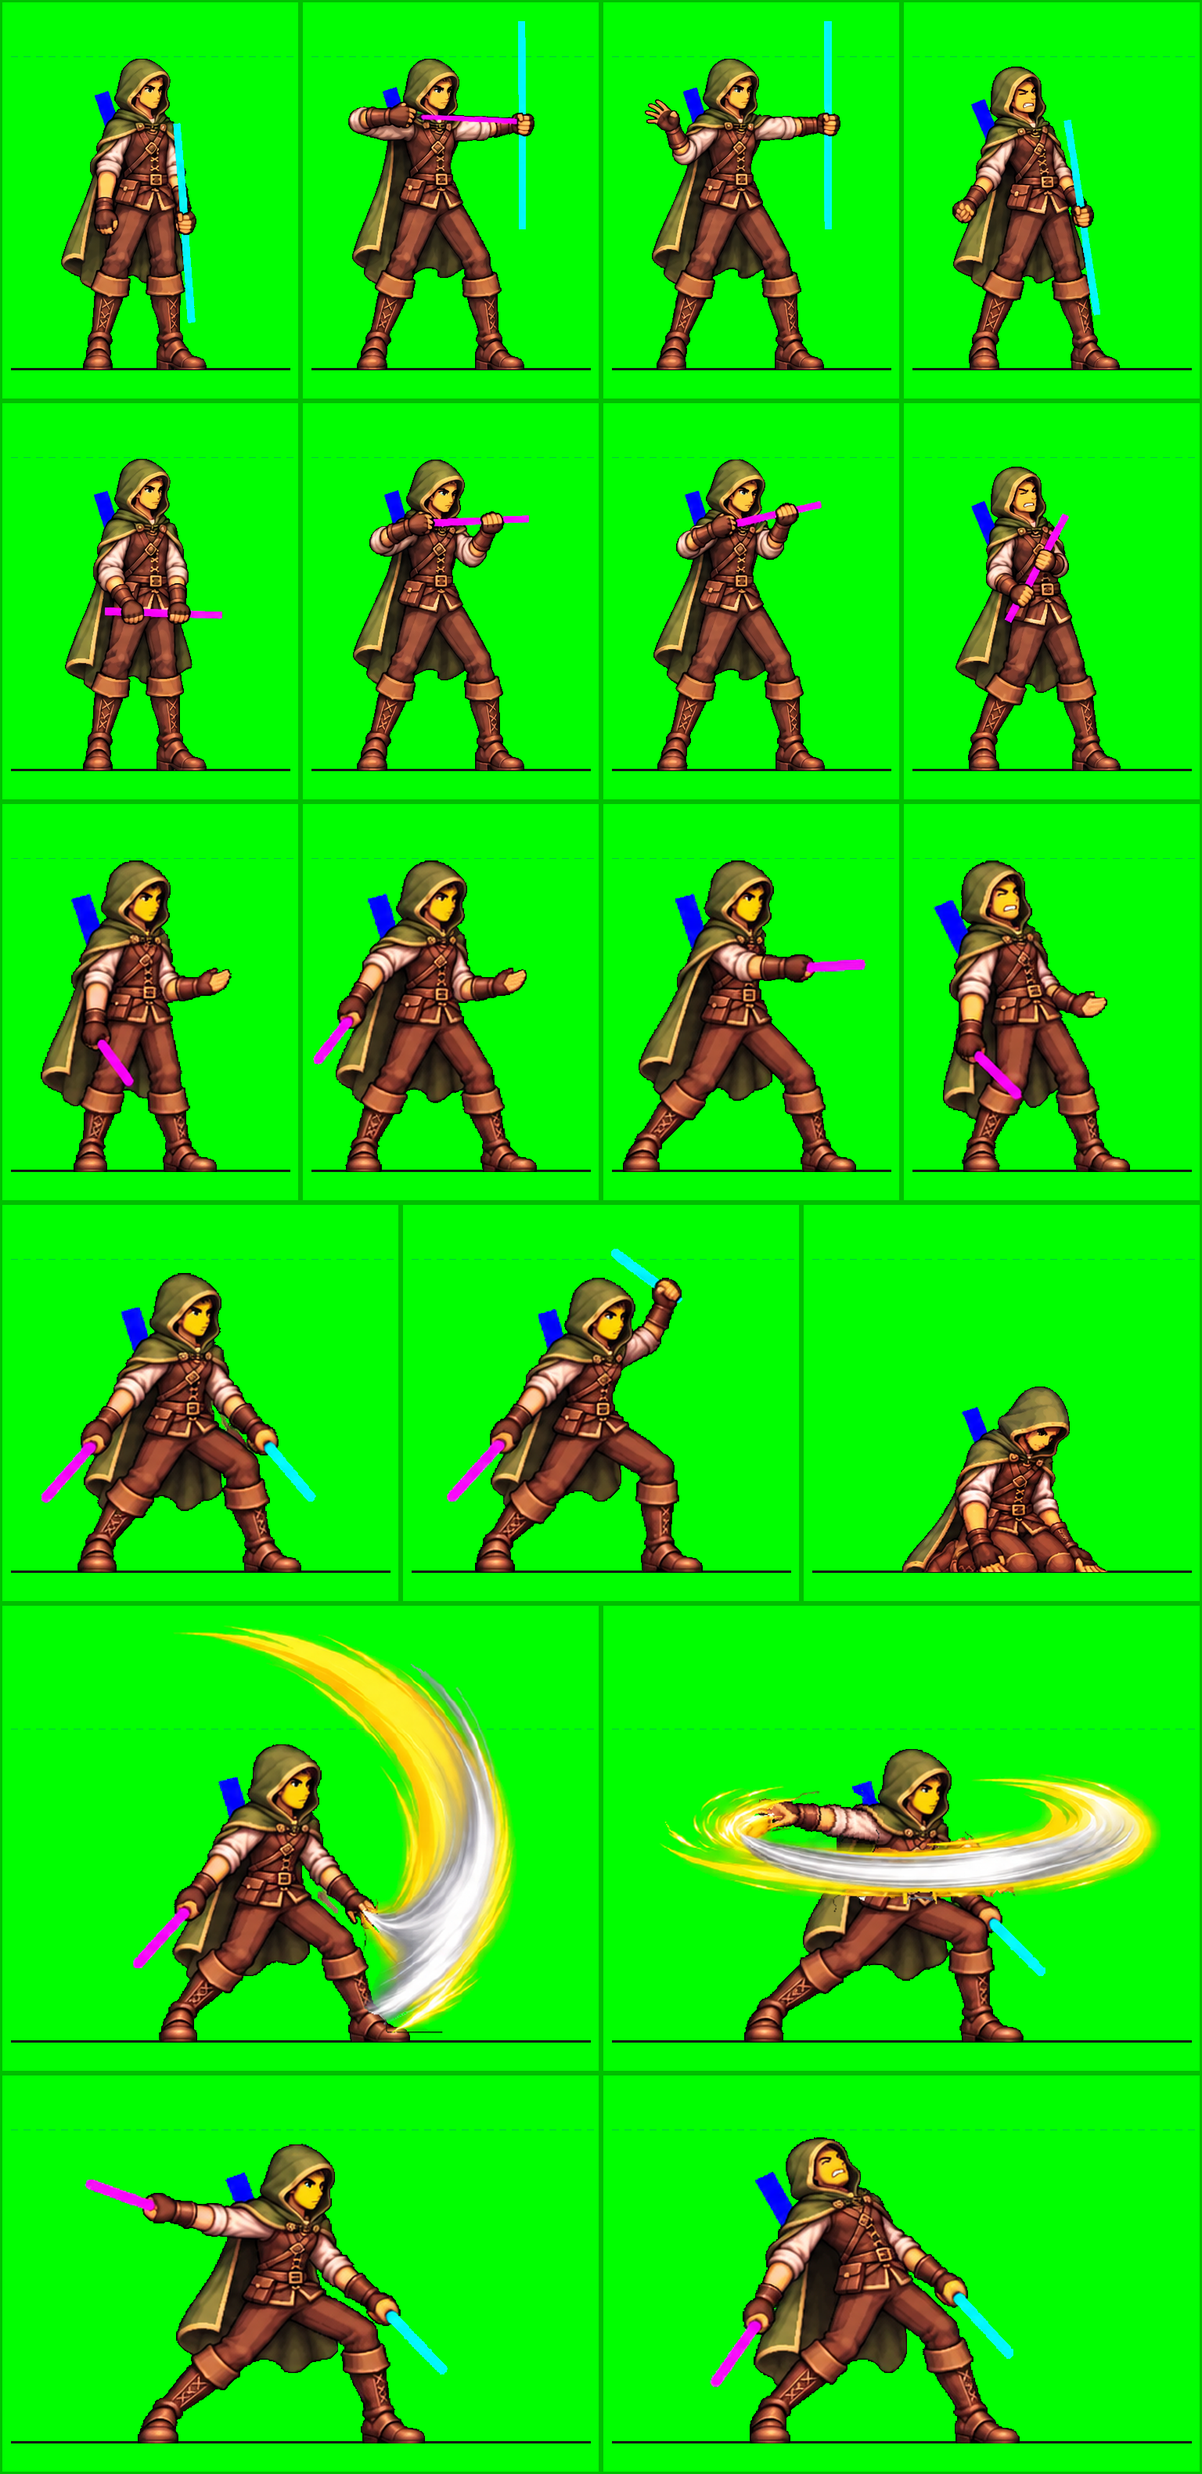
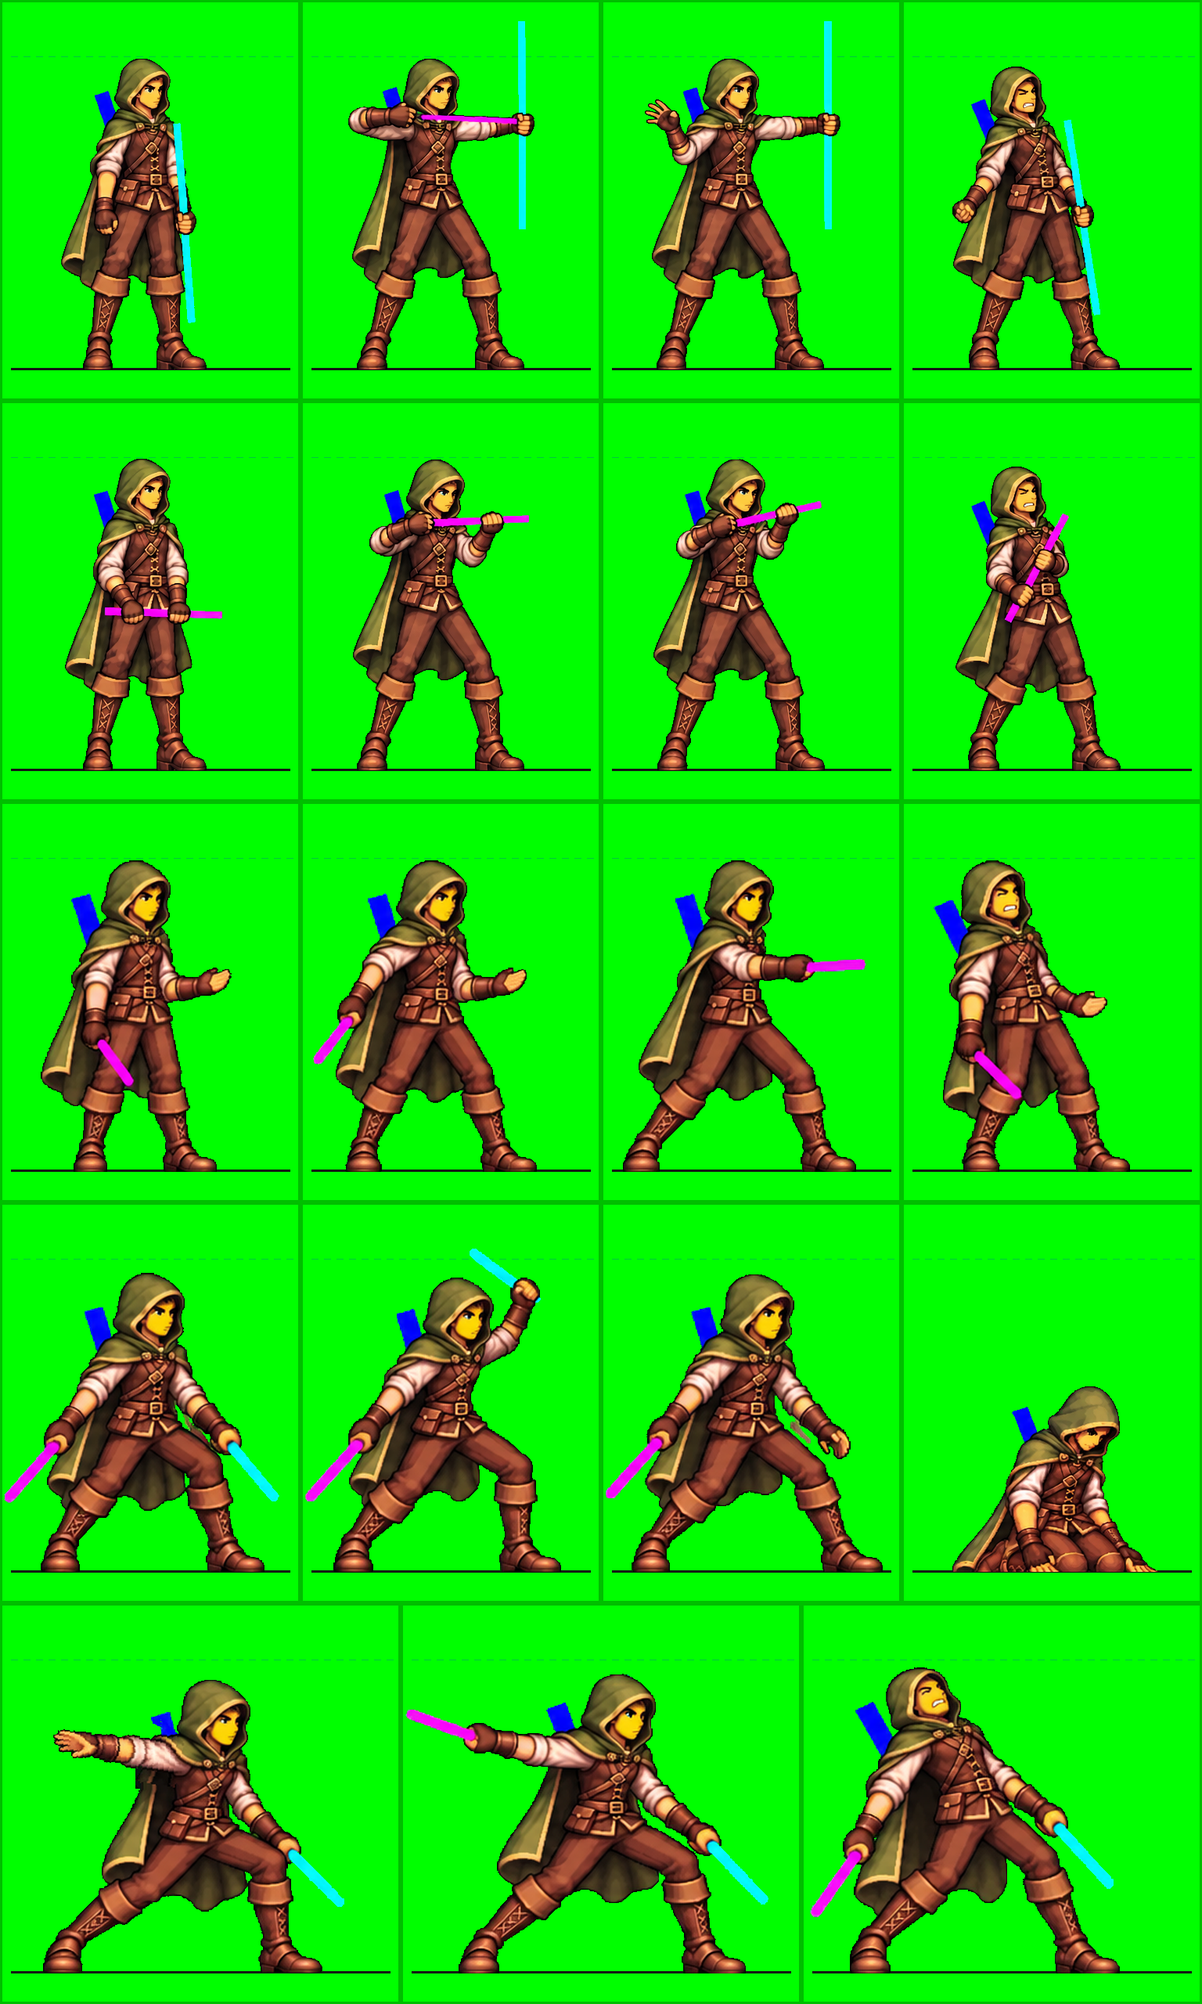
Archer combined sheet: slash arcs off again (separate layer); female prompt updated
Claude-Session: https://claude.ai/code/session_01M8ejkLTav7LEMdtajuWjkN

diff --git a/art_source/new_art/battle/tools/combine_archer_sheet.py b/art_source/new_art/battle/tools/combine_archer_sheet.py
@@ -40,11 +40,11 @@ s_down = ref / body_height(down, (0, 512, 512, 1024))        # the downed sheet'
 ROWS = [[(bow, bcell[('bow', s)], 1.0, 'bow', s) for s in ('stand', 'nock', 'attack', 'hit')],
         [(bow, bcell[('crossbow', s)], 1.0, 'crossbow', s) for s in ('stand', 'aim', 'attack', 'hit')],
         [(dag, dcell[('1h', s)], s_dag, '1h', s) for s in ('stand', 'ready', 'attack', 'hit')],
-        [(dag, dcell[('dual', s)], s_dag, 'dual', s) for s in ('stand', 'ready')] + [(down, (0, 0, 512, 512), s_down, 'downed', 'downed')],
-        [(dag, dcell[('dual', s)], s_dag, 'dual', s) for s in ('slash_left', 'slash_right')],
-        [(dag, dcell[('dual', s)], s_dag, 'dual', s) for s in ('finish', 'hit')]]
-ROW_H = [512, 512, 512, 512, 600, 512]          # the slash row is taller: the chop arc rises above the hood
-FX = json.load(open(os.path.join(HERE, 'source', 'archer_dagger_m_fx', 'offsets.json')))['offsets']
+        [(dag, dcell[('dual', s)], s_dag, 'dual', s) for s in ('stand', 'ready', 'slash_left')]
+        + [(down, (0, 0, 512, 512), s_down, 'downed', 'downed')],
+        [(dag, dcell[('dual', s)], s_dag, 'dual', s) for s in ('slash_right', 'finish', 'hit')]]
+ROW_H = [512] * len(ROWS)
+FX = {}      # (user, 2026-11-25) no slash arcs on this sheet: they are their own layer (source/archer_dagger_m_fx/)
 out = Image.new('RGB', (1536, sum(ROW_H)), GREEN); d = ImageDraw.Draw(out); layout = []; fx_jobs = []
 for r, row in enumerate(ROWS):
     cw = 1536 / len(row)

diff --git a/docs/design-decisions.md b/docs/design-decisions.md
@@ -30,7 +30,7 @@ Archer and Mage melee weapons limited to **light** weapons on 2026-11-16 (user: 
 
 **Shields (user, 2026-11-20): each class has its own shield shape** — Soldier = **square** shield, Acolyte and Warrior = **round** shield (the Warrior could not use shields before; this adds it), **kite shield = reserved for a future Knight class**. A one-handed weapon **without** a shield uses the **dual-weapon stance** (left hand empty) in battle sprites. **The shield look is fixed per class** (user, 2026-11-20): shield equipment comes in broad categories (**light shield, heavy shield, tower shield**) that change the rules only; the sprite and the shield stance always show the class's own shield. Shield categories are not in the weapon sheet yet. **Headgear (user, 2026-11-20): battle sprites wear class headgear, portraits never do.** It is drawn into the sprite body by ChatGPT, so battle sprites have **no hair layer** (the portrait-hair sample is dropped for helmeted classes, `HEADGEAR` in `process_battle.py`). **Soldier final design** (`source/concepts/soldier_final_design.png`): plain open-face **barbute helm** (no crest, gold or emblem), simple silver plate armour, blue scarf and tabard, brown leather belt and gloves; the face is the only skin (yellow key). Soldier v3 prompt in `PROMPTS.md` (4 rows: square shield, dual, two-handed, spear), ~6 heads tall including the helmet. Helmet variations and faction colours on that sheet are not used. **Hair under the helmet (user, 2026-11-20):** ChatGPT draws a long-hair ponytail behind the neck in shades of **pure red** (never covering the body); `process_battle.py` cuts it into a hair value-map layer tinted with the hero's hair ramp and shows it **only for long portrait hairstyles** (`art_source/new_art/battle/hair_length.json`: male ponytail, long, wild_mane; female long, ponytail, braids, wavy, side_braid, curly_mane, warrior_halfup; buns/topknots/crown braids count as short). Both sexes get the piece. **Four sprites per stance (user, 2026-11-20, extends the three-sprite rule):** STAND | **READY** (the wind-up a moment before the attack) | ATTACK | GET HIT; the **dual row** is STAND | **ATTACK 1 (main hand)** | **ATTACK 2 (off-hand)** | GET HIT, because dual wield hits twice. Playback: stand → ready → attack → stand (dual: stand → attack 1 → attack 2 → stand); one weapon in the dual stance uses only attack 1. Soldier template is now 4 × 4 (`make_refs.py` `CLASS_STATES`), prompt v5 in `PROMPTS.md`. **Hand convention (corrected 2026-11-20):** in right-facing sprites the character's **LEFT arm is the lead arm** (right side of the picture, the shield arm) and the **RIGHT arm is the rear arm**; magenta (main weapon) is always in the right/rear hand, cyan in the left/lead hand, and the main-hand attack swings the rear arm forward across the body. An earlier prompt rule ("right hand leading on the right of the picture") was wrong and made ChatGPT draw both dual attacks with the left arm; the v5 male sheet's dual stand/hit are swapped back in code (`SWAP_HANDS`) and its ATTACK 1 needs the edit prompt in `PROMPTS.md`. **Dual weapons get their own sheet (user's dual-slash concept, 2026-11-21):** stand → ready (front/cyan arm winds up) → slash 1 (cyan chops down) → slash 2 (magenta sweeps across) → finish (magenta follow-through) → plus get hit; template `soldier_dual_template.png` (2 × 3), prompt names the arms only by rod colour (front arm = cyan, back arm = magenta), never left/right. Main Soldier sheet is now 3 rows × 4 (shield, two-handed, spear). One weapon without shield plays stand → slash 2 → finish from the magenta hand. The off-hand (cyan) hit shows first, the main hand second. **Slash waves (user, 2026-11-21):** in slash 1 the cyan weapon is hidden behind a slash wave (a chop arc from overhead down to the front foot), in slash 2 the magenta weapon is hidden behind a waist-level sweep wave; both weapons show again in finish (`SLASH_HIDE` / `slash_wave()` in `process_battle.py`). **Male dual sheet hand-fixed (2026-11-21):** ChatGPT kept putting the cyan rod on the near arm in slash 1 and swinging the main arm forward in slash 2 / finish, so those cells were rebuilt in code from the sheet's own parts (raw sheet in `source/concepts/soldier_dual_m_gpt_raw.png`); the near arm (big pauldron over the chest, left of the picture) always holds magenta. `SWAP_HANDS` is now empty. **Slash frames = drawn arc + weapon smear (user, 2026-11-21):** the user drew slash 1 and slash 2 in Gemini with a yellow slash arc and a grey **weapon smear** that does not show which weapon was swung (any one-handed weapon fits; a code-drawn motion-blurred sword was rejected as bad design and removed). Gemini then put them into the dual sheet (`source/concepts/soldier_dual_<sex>_sheet_gemini_smear.png`); `tools/green_fx_split.py` lifts the arc and smear off the green into a soft-alpha effect layer (`source/soldier_dual_<sex>_fx.png`) so their yellow never reaches the skin key, and fills the body hidden under the waist sweep. In those frames the swinging hand's weapon is not drawn (the smear stands for it); the other hand's weapon is drawn as usual; fists hidden under the smear are given in `source/soldier_dual_<sex>_grips.json`. `slash_wave()` in code remains the fallback for sheets without a drawn effect. **Female Soldier done (2026-11-21):** both female sheets are Gemini edits of the finished male sheets (main 4 × 4 v5 layout, `SHEET_ROWS` for both sexes; dual with the drawn effects); edit-the-finished-sheet is the method that avoided the arm/hand mistakes. **Metallic armour (user, 2026-11-21):** the AI sheets shade the Soldier's plate with a rosy tint, which read as red armour; `process_battle.py` `to_steel()` (classes in `METAL_ARMOUR`) turns rosy greys into cool steel of the same brightness and the maroon padding between plates into dark steel mail, leaving blue cloth, brown leather, gold trim, hair and skin alone. Applies to every Soldier layer, both sexes. **Downed sprite (user, 2026-11-24):** one downed pose per sex shared by every Soldier loadout (kneeling on both knees, head hanging, empty hands on the ground; no weapon or shield). ChatGPT drew it on `templates/soldier_downed_template.png` (the finished stand figures in the bottom row as reference); `process_battle.py` `process_downed()` scales it from those stand figures and writes `sprites/soldier_<sex>_<loadout>_downed.png` for every loadout. The game export still shows downed as the greyed hit frame until it picks up the new `downed` state. **Dual row:** the first helmet sheets drew the dual stand facing the viewer and the attack side-on, so the weapon seemed to change hands; the Soldier v4 prompt keeps the right hand leading on the right of the figure in all three poses.
 
-**Archer battle sprites (2026-11-24/25):** design sheet by ChatGPT (`source/concepts/archer_design.png`), **hood up** (user's headgear choice), so the hood hides the hair (no hair key) and the face is the only skin. Poses come from **mannequin pose drafts drawn in code** (`tools/archer_pose_draft.py`, `refs/archer_*pose_draft.png`): NEAR arm darker in front, FAR arm lighter behind, sticks in the right hands. Two sheets: **main = bow + crossbow, done** (`source/archer_m_sheet.png`, ChatGPT from the 2 × 4 pose draft, 2026-11-25): bow row stand | nock | release | hit (bow = cyan stick in the far hand, arrow = magenta line), crossbow row stand | aim | release | hit (one magenta stock in both fists). **Dagger sheet** (user, 2026-11-25: one ChatGPT task, "combine 1 handed you design and old dual weapon pose"), 4 × 3: row 1 = **one dagger** stand | ready | attack | hit (off-hand open and empty - for the Archer this replaces the one-weapon-uses-the-dual-stance rule); rows 2-3 = **dual daggers with the Soldier's dual poses** (stand | ready | slash 1 | slash 2 | finish | hit), the pose sheet shows the Soldier's finished dual figures, so the Soldier's drawn slash arc/smear can be reused: **done for the male** (2026-11-25, user: slash 1 and 2 were missing the wave) with `tools/reuse_slash_fx.py` - the Soldier's effect cell scaled by the stand-height ratio and placed on the Archer's feet, saved whole (arcs reach past the cell) as `source/archer_dagger_m_fx/<state>.png` + `offsets.json`; preview `review_archer_dagger_fx.png`. Male dagger sheet = `source/archer_dagger_m_sheet.png` (ChatGPT original kept in `source/concepts/archer_dagger_m_sheet_gpt_raw.png`; **slash 2's near arm raised 12° to the FINISH angle, hand empty** - user, 2026-11-25 - by `tools/archer_fix_slash2_arm.py`, and the sweep moved up with it). **Archer downed sprite** (2026-11-25): ChatGPT on `templates/archer_downed_template.png` (bottom row = male bow stand, female from the design sheet; pose copied from the Soldier's downed sheet) -> `source/archer_downed_sheet.png`, both sexes, kneeling, hood up, empty hands, blue quiver marker. **Combined male sheet** (user, 2026-11-25): `tools/combine_archer_sheet.py` puts all 19 male poses at one scale on `source/archer_m_all_sheet.png` (1536 × 3160; rows: bow | crossbow | one dagger | dual stand, ready + downed | dual slash 1, slash 2 in wide cells of a taller row **with the slash arc + smear drawn on** (user, 2026-11-25) | dual finish, hit), cell map in `archer_m_all_layout.json`. Note: every Archer sheet shows a little brown fringe of hair under the hood; it stays a fixed brown (not keyed to the hero's hair colour). The blue back marker stands for the quiver **or** the bolt case (same back slot; the game shows whichever ammunition is equipped). Not yet built into sprites: `process_battle.py` needs Archer loadouts (bow as a cyan stick, a code-drawn crossbow, the blue quiver marker cut out and replaced by the quiver layer). Male first by ChatGPT, female as Gemini edits of the finished male sheets.
+**Archer battle sprites (2026-11-24/25):** design sheet by ChatGPT (`source/concepts/archer_design.png`), **hood up** (user's headgear choice), so the hood hides the hair (no hair key) and the face is the only skin. Poses come from **mannequin pose drafts drawn in code** (`tools/archer_pose_draft.py`, `refs/archer_*pose_draft.png`): NEAR arm darker in front, FAR arm lighter behind, sticks in the right hands. Two sheets: **main = bow + crossbow, done** (`source/archer_m_sheet.png`, ChatGPT from the 2 × 4 pose draft, 2026-11-25): bow row stand | nock | release | hit (bow = cyan stick in the far hand, arrow = magenta line), crossbow row stand | aim | release | hit (one magenta stock in both fists). **Dagger sheet** (user, 2026-11-25: one ChatGPT task, "combine 1 handed you design and old dual weapon pose"), 4 × 3: row 1 = **one dagger** stand | ready | attack | hit (off-hand open and empty - for the Archer this replaces the one-weapon-uses-the-dual-stance rule); rows 2-3 = **dual daggers with the Soldier's dual poses** (stand | ready | slash 1 | slash 2 | finish | hit), the pose sheet shows the Soldier's finished dual figures, so the Soldier's drawn slash arc/smear can be reused: **done for the male** (2026-11-25, user: slash 1 and 2 were missing the wave) with `tools/reuse_slash_fx.py` - the Soldier's effect cell scaled by the stand-height ratio and placed on the Archer's feet, saved whole (arcs reach past the cell) as `source/archer_dagger_m_fx/<state>.png` + `offsets.json`; preview `review_archer_dagger_fx.png`. Male dagger sheet = `source/archer_dagger_m_sheet.png` (ChatGPT original kept in `source/concepts/archer_dagger_m_sheet_gpt_raw.png`; **slash 2's near arm raised 12° to the FINISH angle, hand empty** - user, 2026-11-25 - by `tools/archer_fix_slash2_arm.py`, and the sweep moved up with it). **Archer downed sprite** (2026-11-25): ChatGPT on `templates/archer_downed_template.png` (bottom row = male bow stand, female from the design sheet; pose copied from the Soldier's downed sheet) -> `source/archer_downed_sheet.png`, both sexes, kneeling, hood up, empty hands, blue quiver marker. **Combined male sheet** (user, 2026-11-25): `tools/combine_archer_sheet.py` puts all 19 male poses at one scale on `source/archer_m_all_sheet.png` (1536 × 2560; rows: bow | crossbow | one dagger | dual stand, ready, slash 1 + downed | dual slash 2, finish, hit in wide cells), cell map in `archer_m_all_layout.json`. **No slash arcs on it** (user, 2026-11-25): they are their own layer (`source/archer_dagger_m_fx/`), added to the frames by the build and reused for the female. Note: every Archer sheet shows a little brown fringe of hair under the hood; it stays a fixed brown (not keyed to the hero's hair colour). The blue back marker stands for the quiver **or** the bolt case (same back slot; the game shows whichever ammunition is equipped). Not yet built into sprites: `process_battle.py` needs Archer loadouts (bow as a cyan stick, a code-drawn crossbow, the blue quiver marker cut out and replaced by the quiver layer). Male first by ChatGPT, female as Gemini edits of the finished male sheets.
 
 **Warrior look (user, 2026-11-18): a barbarian, but armored** — can wear up to medium armor, so leather and chain or scale over a barbarian build (furs, leather harness), not the old Brawler's sleeveless tunic. Exact outfit to be drawn with the new art. Legacy battle-sprite and portrait files keep the name `brawler` (they are the old look and reference only).
 

diff --git a/art_source/new_art/battle/PROMPTS.md b/art_source/new_art/battle/PROMPTS.md
@@ -762,7 +762,7 @@ ChatGPT drew as the downed sheet's standing reference: right outfit, yellow face
 `source/archer_f_all_sheet.png` (same cell layout, `source/archer_m_all_layout.json`).
 
 ```
-Edit the first attached image, a sprite sheet of 19 cells on a flat green screen showing the same hooded male archer in 19 poses. Turn him into the FEMALE archer of the second attached image, in every cell, and change nothing else.
+Edit the first attached image, a sprite sheet of 19 cells on a flat green screen showing the same hooded male archer in 19 poses (the last row has 3 wider cells). Turn him into the FEMALE archer of the second attached image, in every cell, and change nothing else.
 
 Change only the body and face: clearly feminine, like the second image - a smaller, slimmer frame, narrower shoulders, a curved waist and hips, a slightly fuller chest under the vest, slimmer arms and legs, and a soft feminine face with larger eyes and a small chin. Her head and hood are NOT bigger than his; she is about as tall as him, so the top of her hood stays near each cell's dashed line.
 
@@ -772,7 +772,6 @@ Keep exactly as they are:
 - every pose: the same stance, legs, body angle and arm positions in each cell, nothing mirrored;
 - the flat magenta and cyan sticks in the hands: the same stick in the same hand, at the same angle and length, the same flat colours with no shading; open empty hands stay open and empty;
 - the flat pure blue bar on the back in every cell;
-- the yellow slash arc and grey motion smear in the two wide slash cells: same shape, size, position and colours;
 - the outfit and colours: forest-green hood (UP) and cloak with the thin gold trim, brown leather vest laced over a white shirt, brass buckles, bracers, fingerless gloves, brown trousers, laced boots, belt and pouch;
 - the face painted in shades of pure yellow, as in both images; no hair outside the hood, no red anywhere;
 - the pixel-art style, outlines and shading.
@@ -782,5 +781,5 @@ Do not add weapons, a quiver, effects, shadows, text or anything else. Output th
 If a cell changes pose or a stick swaps hands: attach Gemini's result together with the male sheet and say "Fix the cell in
 row <r>, position <c> of the first image so its pose and sticks match the same cell of the second image. Keep everything else."
 If Gemini returns the sheet smaller, that is fine (the build rescales); if it crops or squashes it, do the sheet in two
-halves (rows 1-3, rows 4-6) by cropping the male sheet first. (2026-11-25: the sheet now has 6 rows, 1536 x 3160 - the
-slash 1 / slash 2 row is wide and taller and carries the slash arc + smear, at the user's request.)
+halves (rows 1-3, rows 4-5) by cropping the male sheet first. (2026-11-25: no slash arcs on the sheet - they are their own layer; slash 2's near
+arm is raised to the finish angle, hand empty.)
